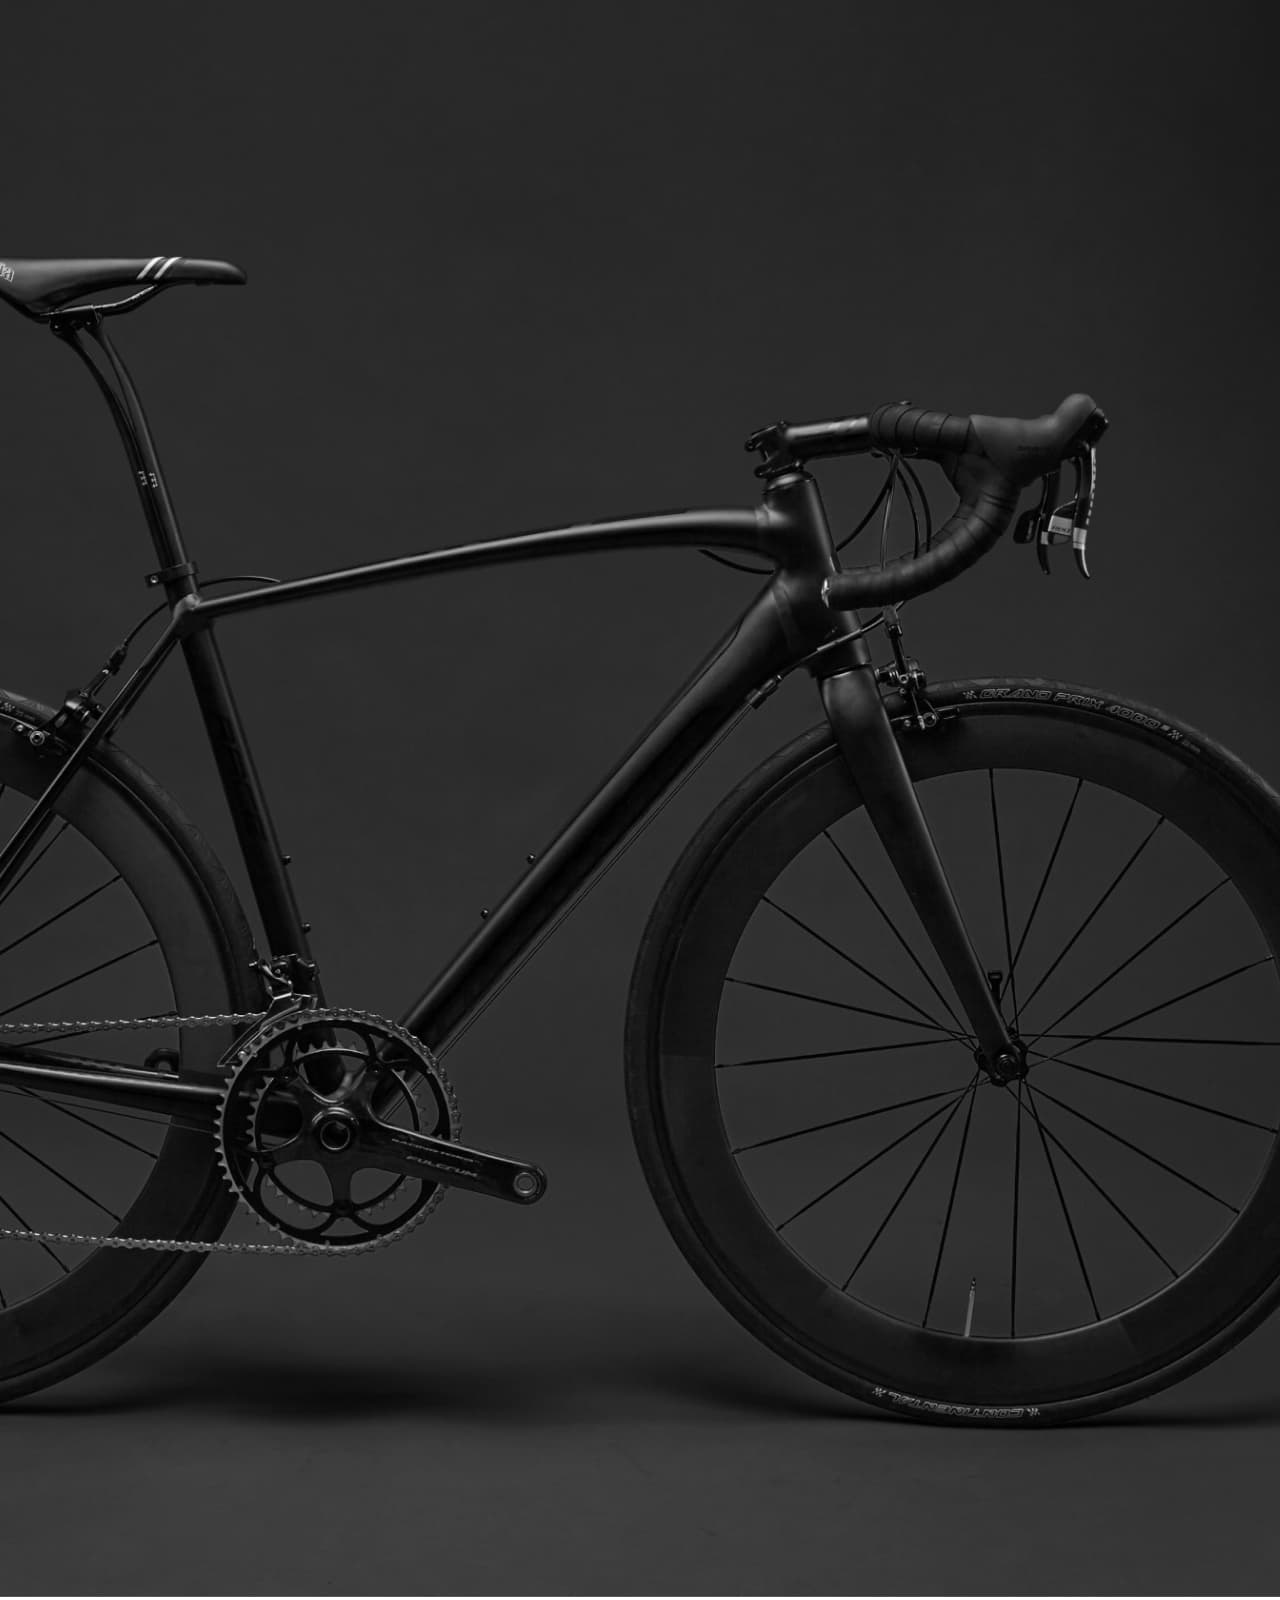
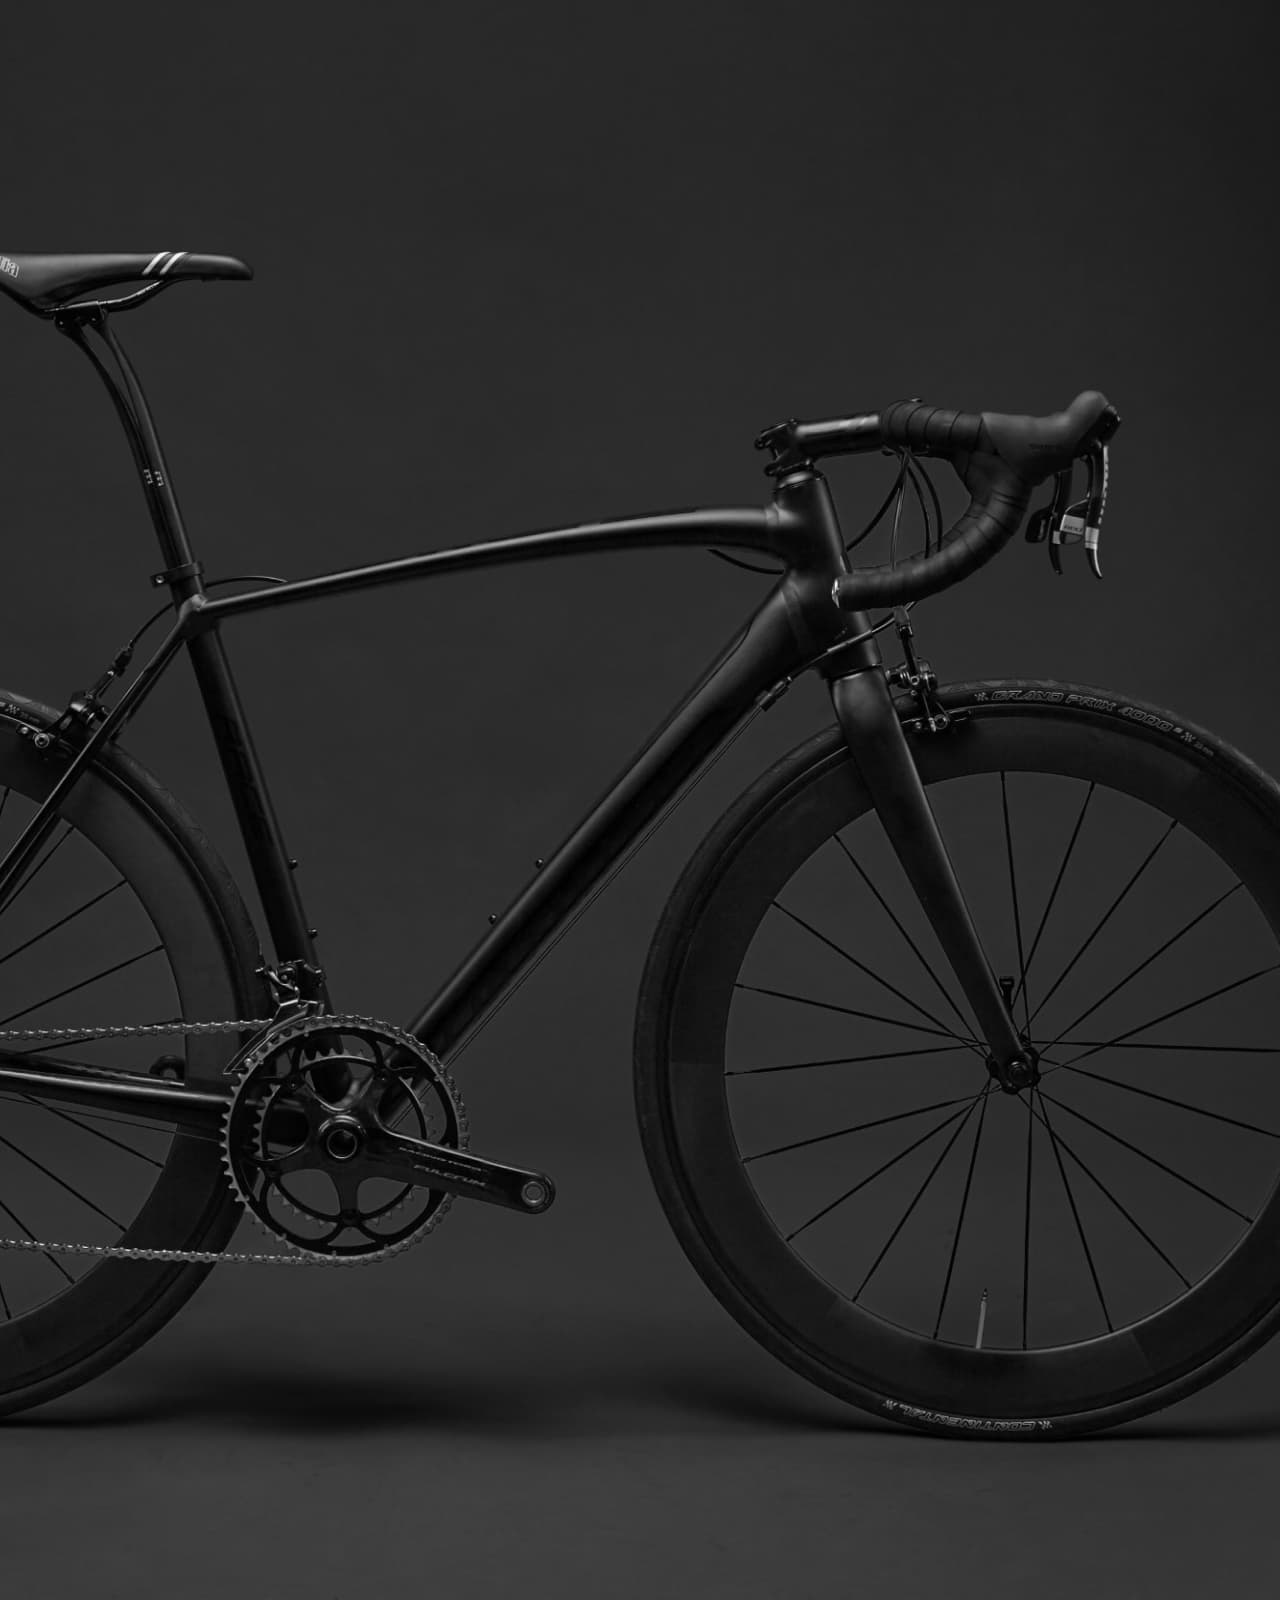
introducao

diff --git a/css/style.css b/css/style.css
@@ -5,6 +5,14 @@
   list-style: none;
   text-decoration: none;
 }
+/* a {
+  color: inherit;
+} */
+
+img {
+  max-width: 100%;
+  display: block;
+}
 
 body {
   font-family: Arial, Helvetica, sans-serif;
@@ -37,6 +45,8 @@ body {
   color: #fff;
   font-size: 18px;
   display: inline-block;
+  font-family: "Poppins";
+  font-weight: 400;
 }
 
 .header-menu a:after {
@@ -68,17 +78,138 @@ body {
   .header-menu {
     gap: 20px;
   }
+
   .header-menu a:after {
     display: none;
   }
 }
 
 @media (max-width: 600px) {
+  .header {
+    justify-content: center;
+  }
   .header-menu {
-    gap: 12px;
+    gap: 20px;
   }
   .header-menu a {
-    padding: 8px 12px;
+    padding: 12px 14px;
     font-size: 14px;
+  }
+}
+
+/* ------------------------- ---------------------------------- */
+
+.introducao-bg {
+  background: #000;
+  box-shadow: inset 0 -120px white;
+}
+.introducao {
+  display: grid;
+  grid-template-columns: 1fr 1fr;
+  max-width: 1200px;
+  margin: 0 auto;
+  padding: 0 20px;
+  gap: 0px 40px;
+}
+
+.introducao-conteudo {
+  align-self: end;
+  padding-bottom: 200px;
+}
+.introducao h1 {
+  color: #fff;
+  margin-bottom: 32px;
+  font-size: 64px;
+  line-height: 1.125;
+  font-family: "Poppins";
+  font-weight: 600;
+}
+.introducao span {
+  color: #ffbb00;
+}
+
+.introducao p {
+  color: #b2b2b2;
+  margin-bottom: 20px;
+  font-size: 24px;
+  line-height: 1.5;
+  font-family: "Roboto";
+  font-weight: 400;
+}
+
+.introducao a {
+  display: inline-block;
+  padding: 16px 32px;
+  color: #332200;
+  background: linear-gradient(#ffbf00, #b38936);
+  box-shadow: 0px 1px 2px rgba(0, 0, 0, 0.1);
+  border-radius: 4px;
+  font-size: 18px;
+  line-height: 1.3;
+  text-transform: uppercase;
+  font-family: "Poppins";
+  font-weight: 600;
+}
+
+.introducao a:hover {
+  background: linear-gradient(#ffb60d, #e59317);
+}
+
+.introducao img {
+  height: 100%;
+  object-fit: cover;
+}
+
+@media (max-width: 1200px) {
+  .introducao h1 {
+    font-size: 48px;
+  }
+  .introducao p {
+    font-size: 18px;
+  }
+}
+
+@media (max-width: 800px) {
+  .introducao {
+    grid-template-columns: 1fr;
+    gap: 32px;
+  }
+
+  .introducao-bg {
+    padding-top: 40px;
+    background: #111111;
+    box-shadow: inset 0 -60px white;
+  }
+
+  .introducao-conteudo {
+    padding-bottom: 0px;
+  }
+
+  .introducao h1 {
+    font-size: 32px;
+    margin-bottom: 16px;
+  }
+
+  .introducao p {
+    font-size: 18px;
+  }
+
+  .introducao img {
+    height: 300px;
+    width: 100%;
+  }
+}
+
+@media (max-width: 600px) {
+  .introducao h1 {
+    font-size: 36px;
+    margin-bottom: 16px;
+  }
+  .introducao p {
+    font-size: 16px;
+  }
+  .introducao a {
+    padding: 12px 16px;
+    font-size: 16px;
   }
 }

diff --git a/index.html b/index.html
@@ -8,7 +8,9 @@
     <meta name="description" content="Bicicletas elétricas de alta precisão e qualidade,  feitas sob medida para o cliente. 
    Explore o mundo na sua velocidade com a Bikcraft.">
     <link rel="stylesheet" href="./css/style.css">
-
+    <link rel="preconnect" href="https://fonts.googleapis.com">
+    <link rel="preconnect" href="https://fonts.gstatic.com" crossorigin>
+    <link href="https://fonts.googleapis.com/css2?family=Poppins:wght@400;600&family=Roboto:wght@400;500&display=swap" rel="stylesheet">
     <title>Document</title>
 </head>
 
@@ -16,7 +18,7 @@
     <header class="header-bg">
         <div class="header">
             <a href="./">
-                <img src="./img/bikcraft 1.svg" alt="Bikcraft">
+                <img src="./img/bikcraft 1.svg" alt="Bicicleta eletrica preta">
             </a>
 
             <nav aria-label="primaria">
@@ -28,6 +30,19 @@
             </nav>
         </div>
     </header>
+    <main class="introducao-bg">
+        <div class="introducao">
+            <div class="introducao-conteudo">
+                <h1>Bicicletas feitas
+                    sob medida<span>.</span></h1>
+                <p>Bicicletas elétricas de alta precisão e qualidade, feitas sob medida para o cliente. Explore o mundo na sua velocidade com a Bikcraft.</p>
+                <a href="#">Escolha a sua</a>
+            </div>
+            <div>
+                <img src="./img/fotos/introducao.jpg" alt="introducao">
+            </div>
+        </div>
+    </main>
 </body>
 
 </html>
